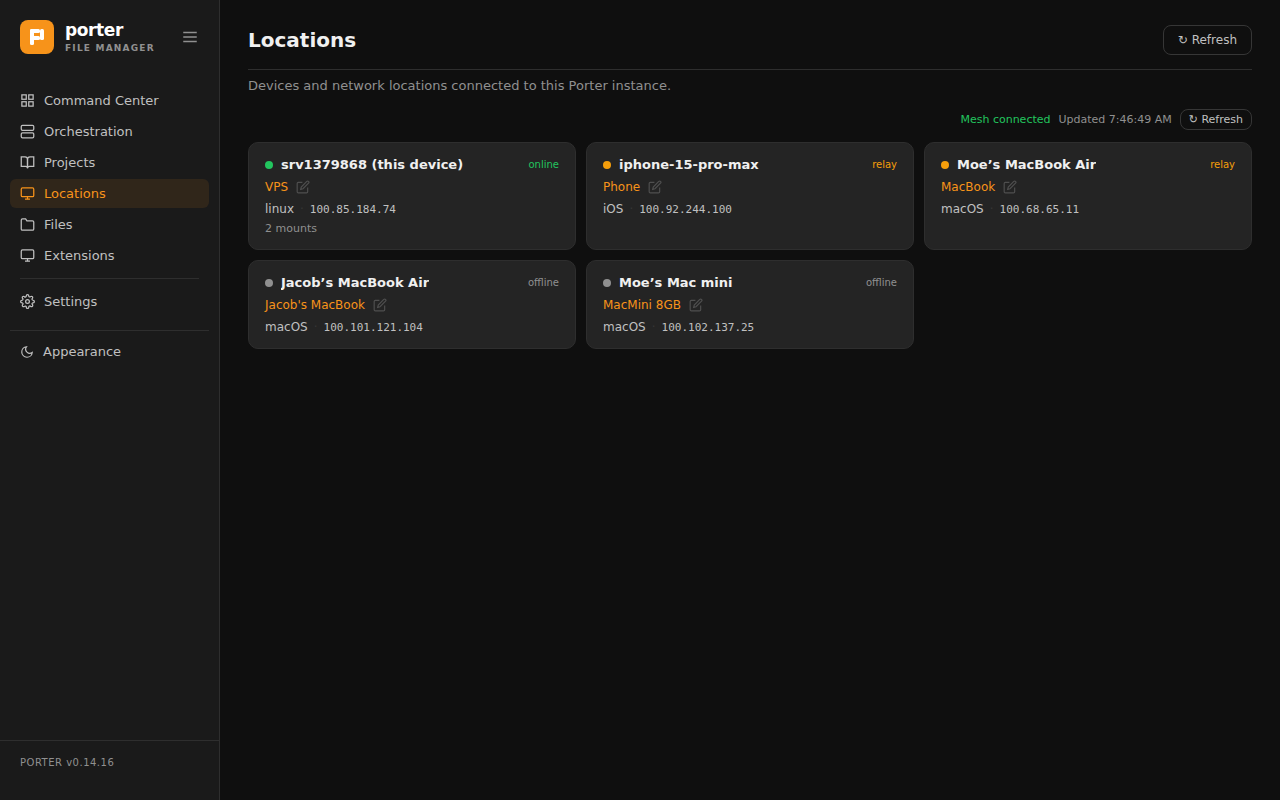
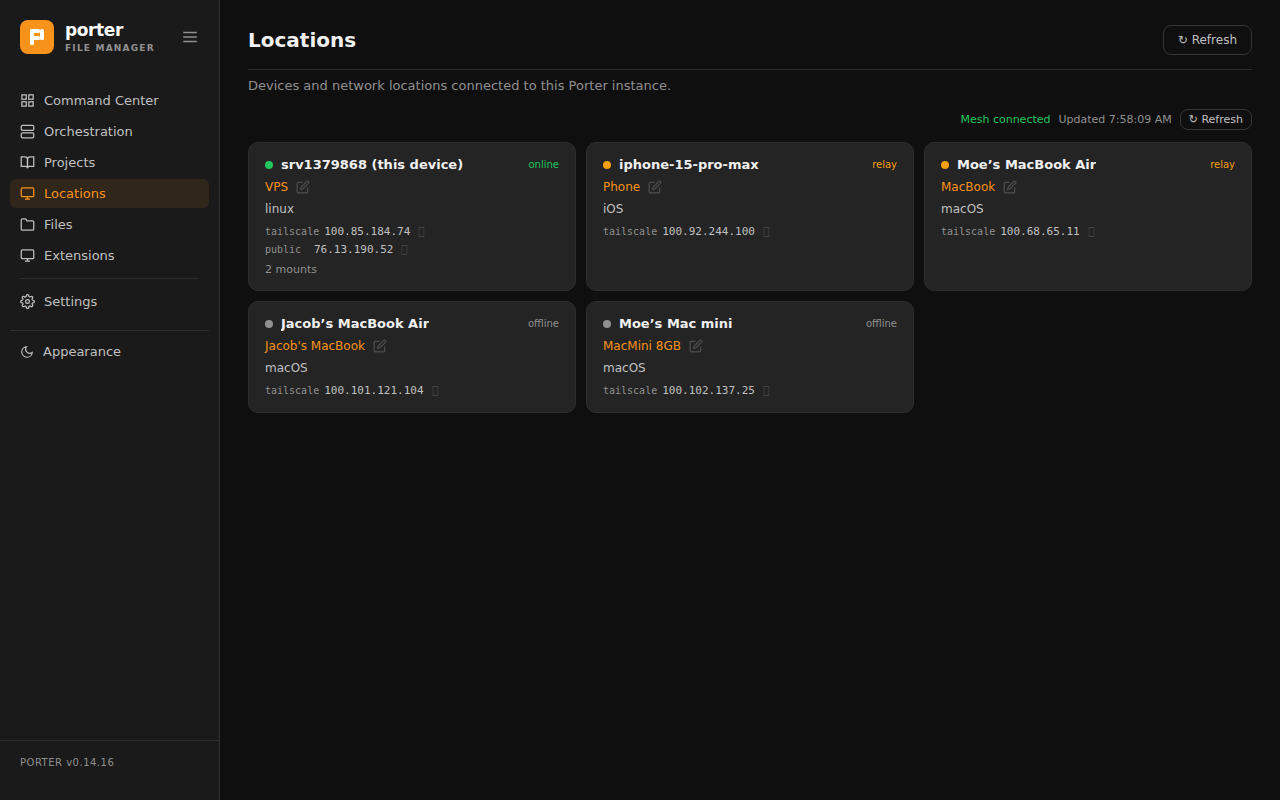
Standardize all status dots to 8px with shared .status-dot class
Was: 7px (files), 8px (locations, config), 9px (orchestration), 10px
(usage), 16px Unicode glyphs (extensions). Now all 8px CSS circles.

diff --git a/porter.py b/porter.py
@@ -2337,7 +2337,8 @@ body.density-compact .file-name { padding: 6px 0; }
 }
 .orch-card:hover { border-color:var(--accent); }
 .orch-card-head { display:flex; align-items:center; gap:10px; margin-bottom:8px; }
-.orch-card-dot { width:9px; height:9px; border-radius:50%; flex-shrink:0; }
+.status-dot { display:inline-block; width:8px; height:8px; border-radius:50%; flex-shrink:0; }
+.orch-card-dot { width:8px; height:8px; border-radius:50%; flex-shrink:0; }
 .orch-card-name { font-size:14px; font-weight:600; flex:1; min-width:0; overflow:hidden; text-overflow:ellipsis; white-space:nowrap; }
 .orch-card-gear {
   width:32px; height:32px; display:flex; align-items:center; justify-content:center;
@@ -5188,8 +5189,8 @@ function renderCapabilities(caps) {
   el.innerHTML = caps.map(c => {
     const ok = c.ok;
     const dot = ok
-      ? '<span style="color:#22c55e;font-size:16px;line-height:1">&#9679;</span>'
-      : '<span style="color:var(--text3);font-size:16px;line-height:1">&#9675;</span>';
+      ? '<span class="status-dot" style="background:#22c55e"></span>'
+      : '<span class="status-dot" style="background:var(--text3)"></span>';
     const rawVer = ok && c.version ? c.version : '';
     const dispVer = rawVer && /^\d/.test(rawVer.trim()) ? 'v' + rawVer.trim() : rawVer.trim();
     const ver = dispVer ? '<span style="color:var(--text3);font-size:11px;margin-left:6px">' + escHtml(dispVer) + '</span>' : '';
@@ -5645,7 +5646,7 @@ function renderNodes(nodes) {
         return `
           <div class="loc-card">
             <div class="loc-card-head">
-              <span style="display:inline-block;width:8px;height:8px;border-radius:50%;background:${statusDot};flex-shrink:0" title="${nodeStatus === 'relay' ? 'Via DERP relay — not direct peer-to-peer' : ''}"></span>
+              <span class="status-dot" style="background:${statusDot}" title="${nodeStatus === 'relay' ? 'Via DERP relay — not direct peer-to-peer' : ''}"></span>
               <span class="loc-card-name">${escHtml(deviceName)}</span>
               <span style="font-size:10px;color:${statusColor};font-weight:500;margin-left:auto">${statusLabel}</span>
             </div>
@@ -6423,7 +6424,7 @@ function renderAgents(agents) {
     return `
     <div style="padding:14px 16px;background:var(--raised);border-radius:10px;border:1px solid var(--border)">
       <div style="display:flex;align-items:center;gap:8px;margin-bottom:10px">
-        <span style="width:8px;height:8px;border-radius:50%;background:${riskColor};flex-shrink:0"></span>
+        <span class="status-dot" style="background:${riskColor}"></span>
         <span style="font-size:14px;font-weight:600;flex:1;min-width:0;overflow:hidden;text-overflow:ellipsis;white-space:nowrap">${escHtml(a.name)}</span>
         ${roleWidget}
       </div>
@@ -7132,7 +7133,7 @@ function renderUsage(agents) {
     const snapped = a.captured_at ? _usageAgo(a.captured_at) : 'never';
     return `
     <div style="display:flex;align-items:center;gap:12px;padding:10px 12px;background:var(--raised);border-radius:8px;margin-bottom:8px;border:1px solid var(--border)">
-      <div style="width:10px;height:10px;border-radius:50%;background:${color};flex-shrink:0"></div>
+      <span class="status-dot" style="background:${color}"></span>
       <div style="flex:1;min-width:0">
         <div style="display:flex;align-items:center;gap:8px">
           <span style="font-size:13px;font-weight:600">${escHtml(a.name)}</span>
@@ -7961,7 +7962,7 @@ function showFilesHome() {
       const chevron = mounts.length ? (devOpen ? "&#9660;" : "&#9654;") : "";
       const selfTag = isSelf
         ? `<span style="font-size:11px;font-weight:400;color:var(--text3);margin-left:8px">this device</span>`
-        : `<span style="display:inline-flex;align-items:center;gap:4px;margin-left:8px"><span style="width:7px;height:7px;border-radius:50%;background:${dotColor};display:inline-block"></span><span style="font-size:11px;font-weight:400;color:var(--text3)">${tsStatus}</span></span>`;
+        : `<span style="display:inline-flex;align-items:center;gap:4px;margin-left:8px"><span class="status-dot" style="background:${dotColor}"></span><span style="font-size:11px;font-weight:400;color:var(--text3)">${tsStatus}</span></span>`;
 
       const _cbEntry = _pepAgentForNode(node);
       const _cbCirc  = !isSelf && _cbEntry && _cbEntry.circuit;